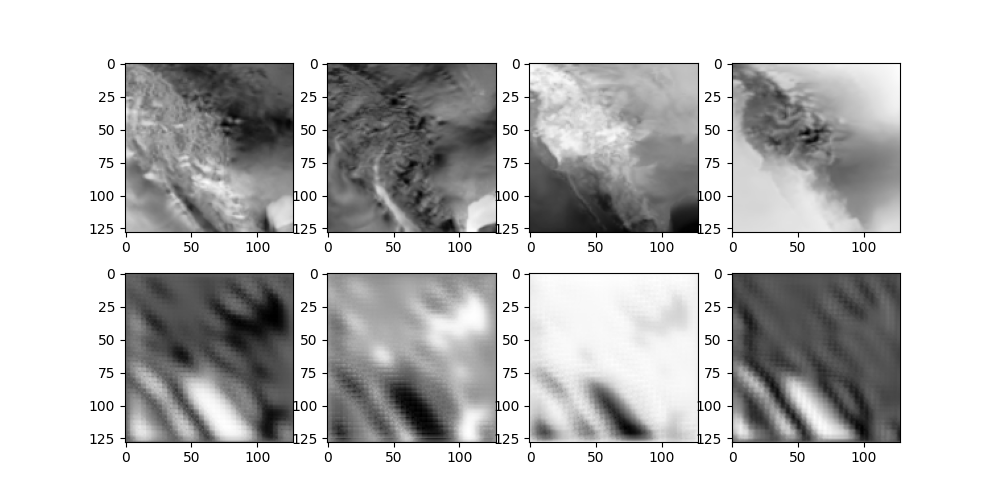
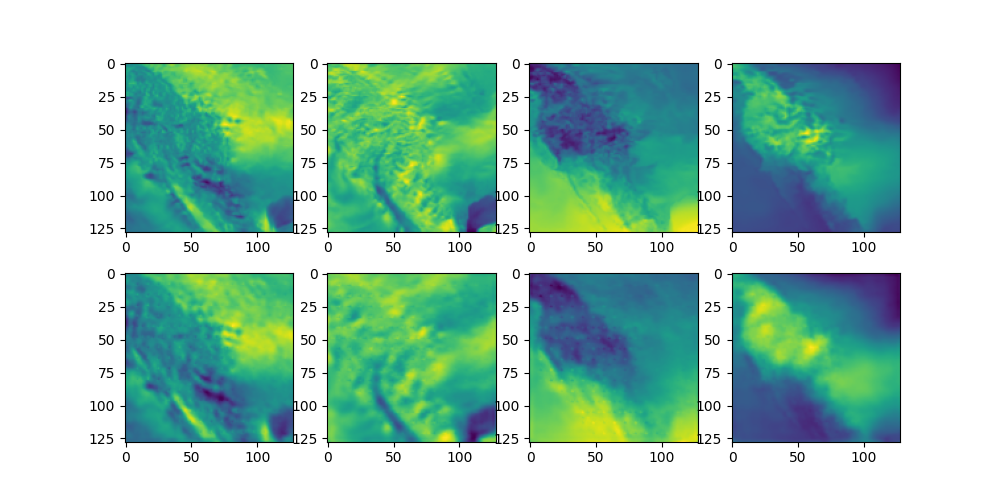
Generate test outputs for evaluation

diff --git a/weather_downscaling_pipeline.py b/weather_downscaling_pipeline.py
@@ -27,6 +27,7 @@ class WeatherLDMSuperResolutionPipeline():
             vqvae_path: Path | str="models/vqvae-trained-vanilla/vqvae-trained-vanilla.pt", 
             unet_path: Path | str="models/unet-trained-vanilla/unet-trained-vanilla.pt",
             batch_size=100,
+            use_noise_latents=False,
         ):
         
         self.device = "cuda" if torch.cuda.is_available() else "cpu"
@@ -45,6 +46,7 @@ class WeatherLDMSuperResolutionPipeline():
 
         
         self.batch_size = batch_size
+        self.use_noise_latents = use_noise_latents
 
 
     def _process_batch(self, 
@@ -76,18 +78,20 @@ class WeatherLDMSuperResolutionPipeline():
             
             X_normalized = (X - means_lr) / stds_lr
 
-            latents_shape = (self.batch_size, 4, height, width)
-            latents_dtype = next(self.unet.parameters()).dtype
+            if self.use_noise_latents:
+                # Traditional LDM pipeline
+                latents_shape = (self.batch_size, 4, height, width)
+                latents_dtype = next(self.unet.parameters()).dtype
 
-            # noise = randn_tensor(
-            #     shape=latents_shape,
-            #     dtype=latents_dtype,
-            #     device=self.device,
-            # ) * self.scheduler.init_noise_sigma
-            # initial_latents = noise
-
-            interpolated_input = interpolate(X_normalized, scale_factor=4)
-            initial_latents = self.vqvae.encode(interpolated_input).latents * self.scheduler.init_noise_sigma
+                initial_latents = randn_tensor(
+                    shape=latents_shape,
+                    dtype=latents_dtype,
+                    device=self.device,
+                ) * self.scheduler.init_noise_sigma
+            else:
+                # "Hack" pipeline for better results
+                interpolated_input = interpolate(X_normalized, scale_factor=4)
+                initial_latents = self.vqvae.encode(interpolated_input).latents * self.scheduler.init_noise_sigma
 
             self.scheduler.set_timesteps(num_inference_steps)
             timesteps_tensor = self.scheduler.timesteps
@@ -139,8 +143,12 @@ class WeatherLDMSuperResolutionPipeline():
         del temp_tensor
         torch.cuda.empty_cache()
 
+        num_batches = data.sizes["sample"] // self.batch_size
+
         def loop():
-            for X in batch_generator:
+            for i, X in enumerate(batch_generator):
+                print("Batch", (i + 1), "/", num_batches)
+
                 yield self._process_batch(
                     X=X,
                     means_base=means_base,
@@ -149,7 +157,7 @@ class WeatherLDMSuperResolutionPipeline():
                 )
                 torch.cuda.empty_cache()
 
-        Ys_denormalized, Ys = zip(*list(loop()))
+        Ys_denormalized, Ys = zip(*tqdm(list(loop())))
 
         Y_denormalized = torch.cat(list(Ys_denormalized), dim=0)
         Y = torch.cat(list(Ys), dim=0)

diff --git a/generate-test-outputs.py b/generate-test-outputs.py
@@ -1,0 +1,86 @@
+import argparse
+from pathlib import Path
+import xarray as xr
+from weather_downscaling_pipeline import WeatherLDMSuperResolutionPipeline
+import torch
+
+
+def parse_args():
+    p = argparse.ArgumentParser(description="Generate test outputs for evaluation")
+
+    p.add_argument(
+        "--input",
+        type=Path,
+        default=Path("data/test.zarr"),
+        help="The input test file",
+    )
+    p.add_argument(
+        "--output",
+        type=Path,
+        default=Path("evaluation/test_outputs/vanilla"),
+        help="The output directory",
+    )
+    p.add_argument(
+        "--vqvae",
+        type=Path,
+        default=Path("models/vqvae-trained-vanilla/vqvae-trained.pt"),
+        help="Path to the VQVAE model to use",
+    )
+    p.add_argument(
+        "--unet",
+        type=Path,
+        default=Path("models/unet-trained-vanilla/unet-trained-vanilla.pt"),
+        help="Path to the UNet model to use",
+    )
+    p.add_argument(
+        "--num-steps",
+        type=int,
+        default=100,
+        help="Number of inference steps"
+    )
+    p.add_argument(
+        "--batch-size",
+        type=int,
+        default=100,
+        help="Batch size (should ideally be factor of test set size)"
+    )
+    p.add_argument(
+        "--noise-latents",
+        action="store_true",
+        help="If active, then use traditional LDM noise latents. Otherwise use the \"hack\" of interpolating then VQVAE encoding to get initial latents for better results."
+    )
+
+    return p.parse_args()
+
+
+if __name__ == "__main__":
+    args = parse_args()
+
+    output_dir = Path(args.output)
+    output_dir.mkdir(exist_ok=True)
+
+    ds_test = xr.open_zarr(args.input)
+    X_lr_test = ds_test["X_lr"]
+
+    if bool(args.noise_latents):
+        print("Using traditional LDM noise latents")
+
+    pipeline = WeatherLDMSuperResolutionPipeline(
+        vqvae_path=Path(args.vqvae),
+        unet_path=Path(args.unet),
+        batch_size=int(args.batch_size),
+        use_noise_latents=bool(args.noise_latents),
+    )
+
+    Y_denormalized, Y_normalized = pipeline(X_lr_test, args.num_steps)
+
+    print("Saving to", str(output_dir))
+
+    torch.save(
+        obj=Y_denormalized,
+        f=output_dir / "denormalized.pt"
+    )
+    torch.save(
+        obj=Y_normalized,
+        f=output_dir / "normalized.pt"
+    )
